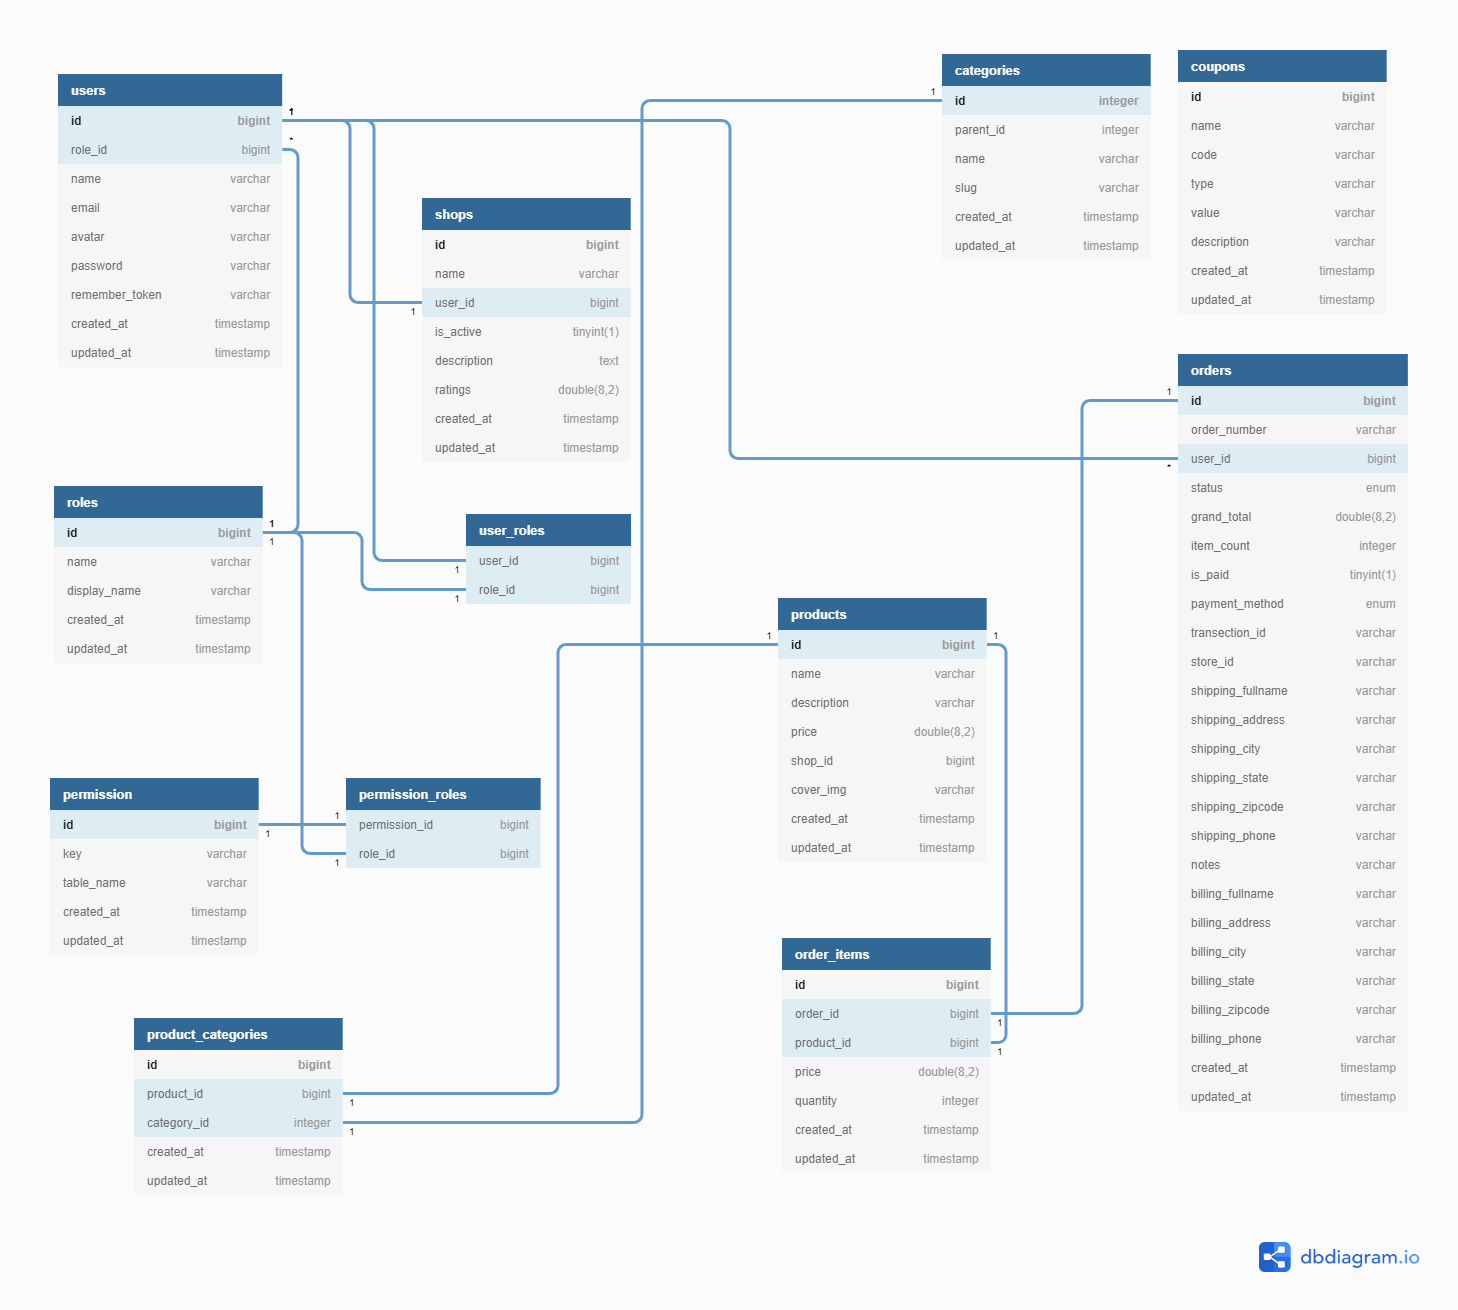
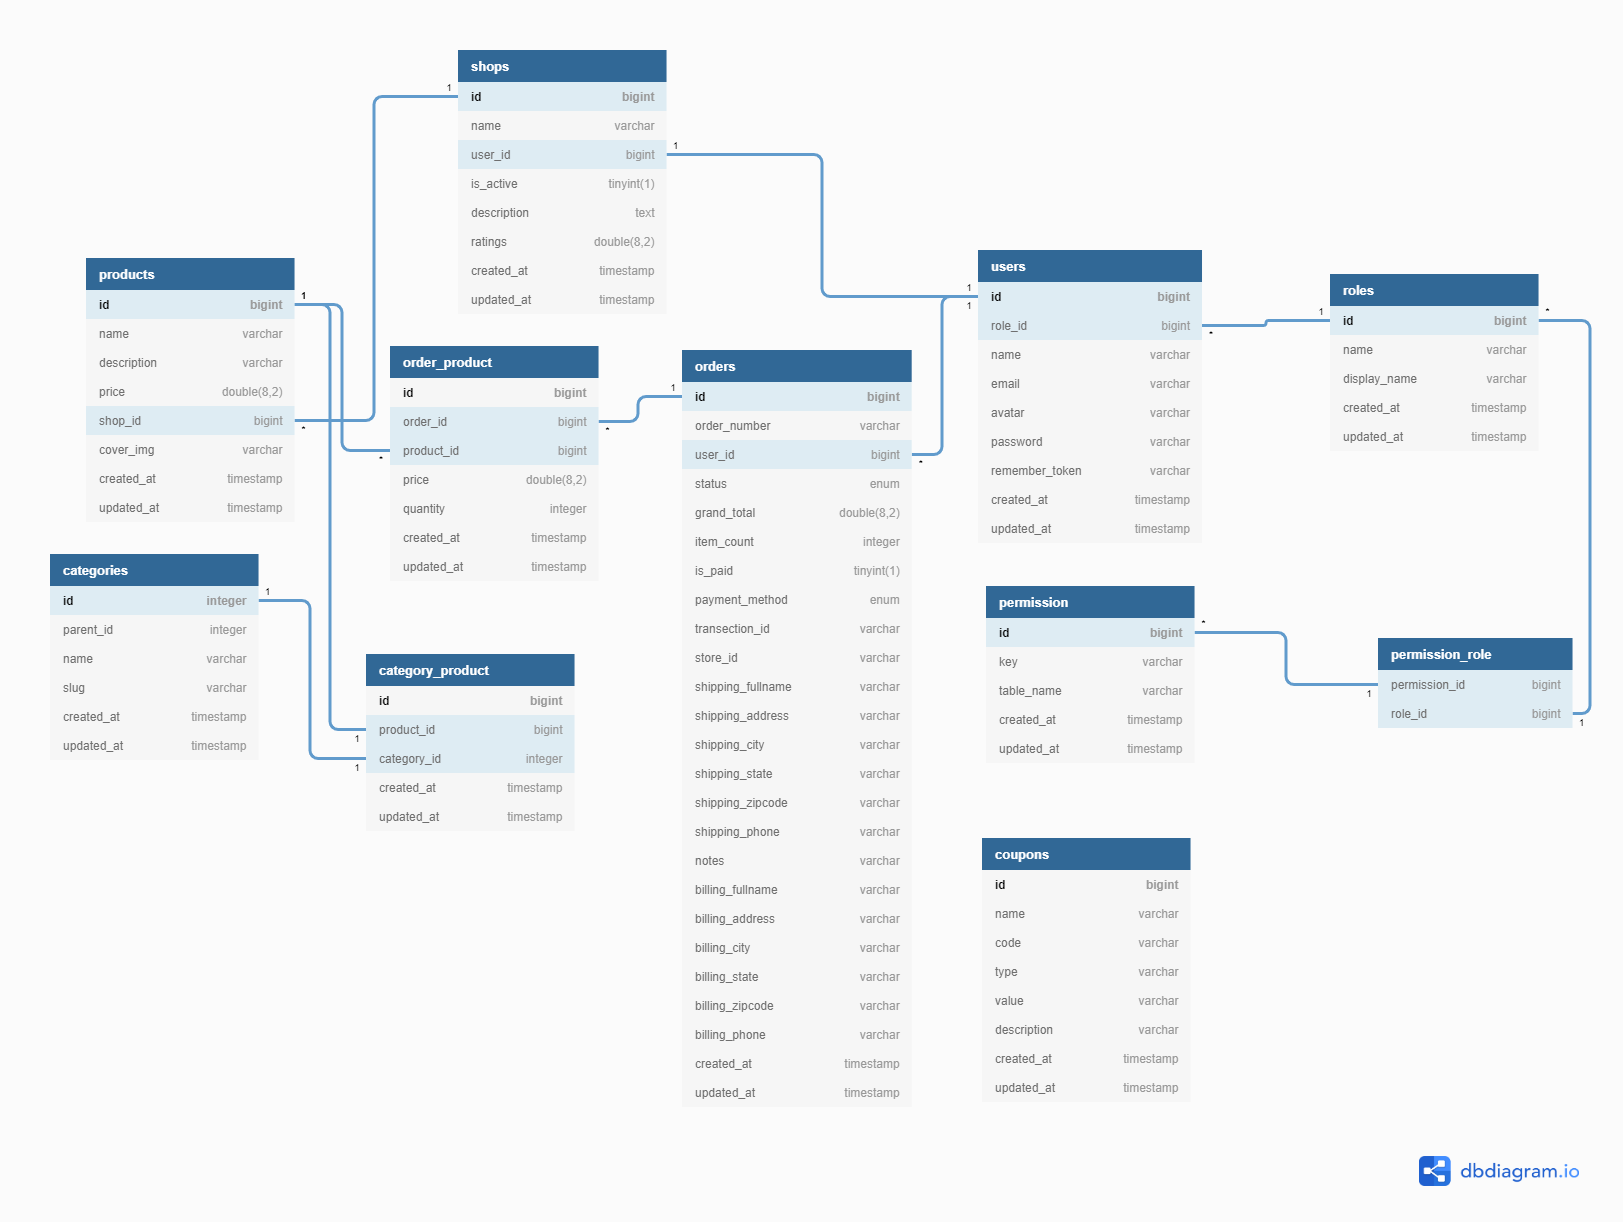
database design complete

diff --git a/README.md b/README.md
@@ -10,7 +10,7 @@
 
 ---
 
-# **Elequent Relationship**
+# **Some Basic Understanding of Elequent Relationship**
 
 -   One To One : hasOne(), belongsTo()
 -   One To Many : hasMany()
@@ -312,7 +312,32 @@ public function removeCategory(Product $product)
 ### Creating only migration
 
 ```cmd
-php artisan make:migration create_tableName_table --create=tableName
+php artisan make:migration create_category_product_table --create category_product
 ```
+
+> `create_ + pivotTable + _table`
+
+> here pivot table contains two table and table names should present in `alphabetical order`.
+
+One important thing
+
+```php
+return $this->belongsToMany(Product::class, 'order_items', 'order_id', 'product_id')->withPivot('quantity', 'price');
+```
+
+> Here `order_items` is pivot table. `order_items` is column name of this table. And `product_id` id the column name of foreign table (Product)
+
+---
+
+# **Some relationship in our Database Design**
+
+---
+
+-   `Order` **belongsToMany** `Product`
+-   `Order` **belongsTo** `User`
+-   `Product` **belongsTo** `Shop`
+-   `Shop` **hasMany** `Product`
+-   `Shop` **belongsTo** `User`
+-   `User` **hasOne** `Shop`
 
 ---
